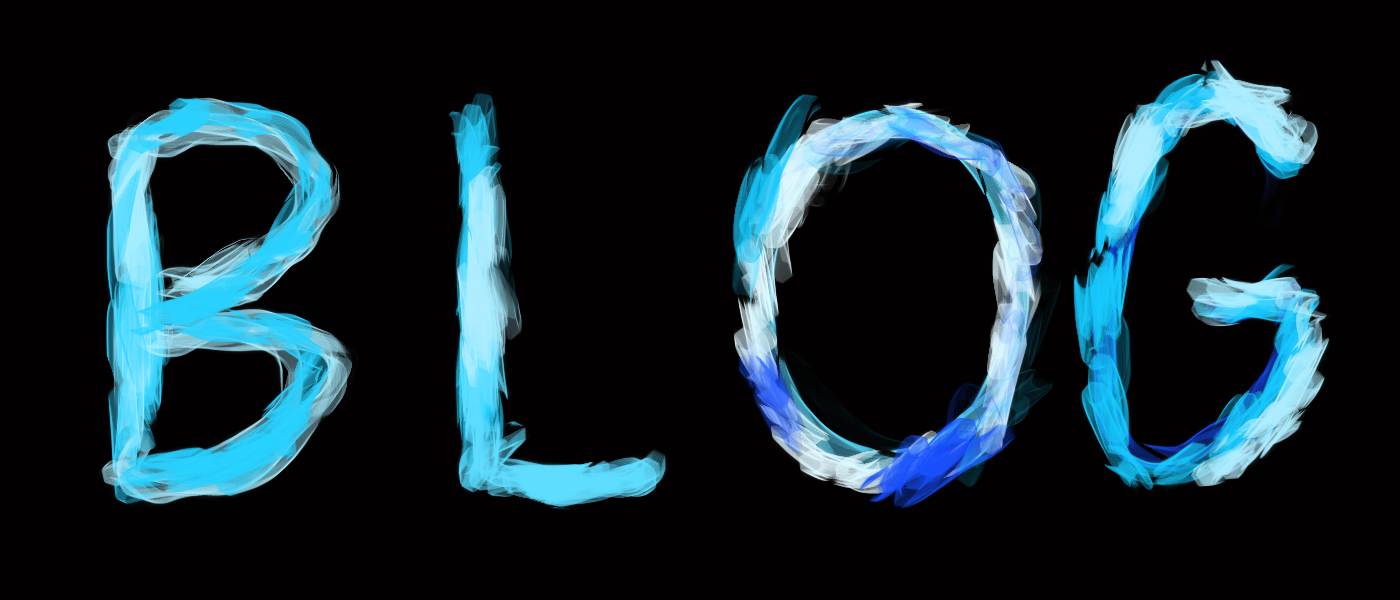
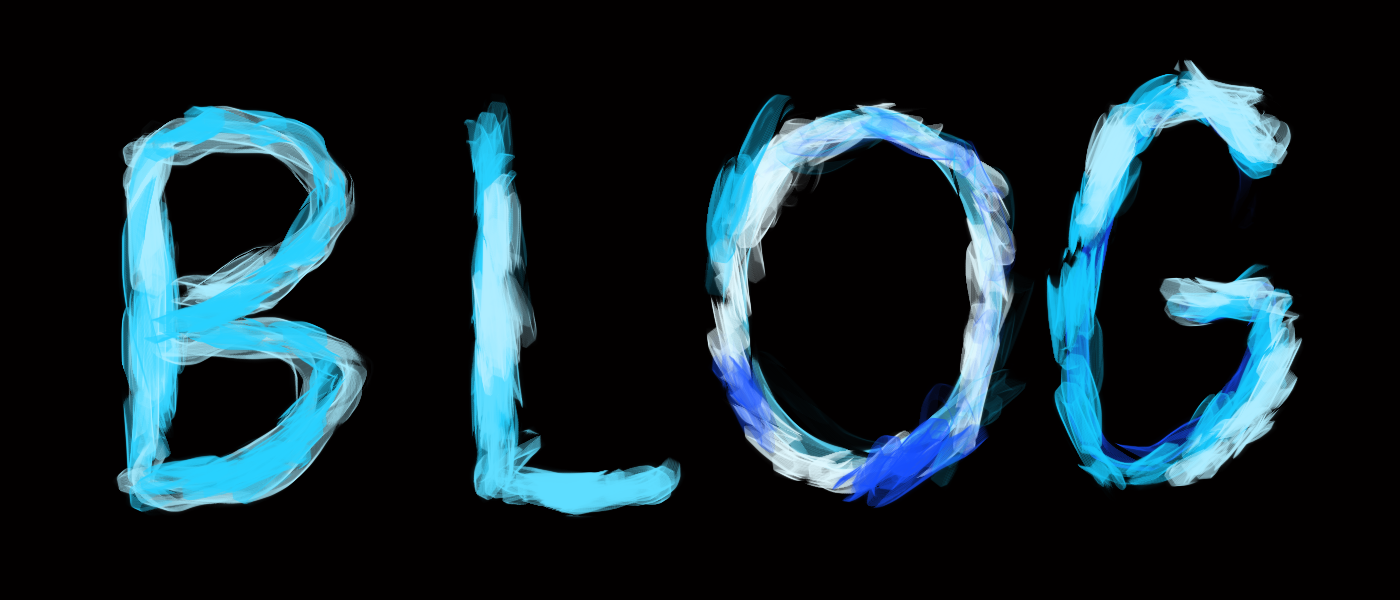
colors and mobile responsiveness looking better

Changed region(s): [[0.4914, 0.09, 0.9521, 0.87], [0.0614, 0.15, 0.2764, 0.87], [0.3071, 0.15, 0.4914, 0.87]]

diff --git a/src/Navigation/MainNav.tsx b/src/Navigation/MainNav.tsx
@@ -1,5 +1,11 @@
 
+//media queries
+import { MenuBreakpoint } from '../UI/MediaQueries'
+
+//react imports
 import { Link } from "react-router-dom"
+
+//styles imports
 import styled from 'styled-components'
 import { randomColor2, randomColor4, randomColor6 } from '../UI/ColorGenerator'
 
@@ -9,10 +15,9 @@ const ListLink = styled(Link)`
   font-size: 1.4em;
   font-weight: 200;
   padding: 10px;
-  margin: 10px;
   text-decoration: none;
   transition: 0.3s;
-  margin: 0 auto;
+  margin: 10px auto;
   display: flex;
 `
 
@@ -23,13 +28,6 @@ const MusicLink = styled(ListLink)`
   }
 `
 
-const TechLink = styled(ListLink)`
-  &:hover {
-    color: ${randomColor4};
-    transition: 0.4s;
-  }
-`
-
 const BlogLink = styled(ListLink)`
   &:hover {
     color: ${randomColor6};
@@ -37,10 +35,22 @@ const BlogLink = styled(ListLink)`
   }
 `
 
+const TechLink = styled(ListLink)`
+  &:hover {
+    color: ${randomColor4};
+    transition: 0.4s;
+  }
+`
+
 const Navbar = styled.div`
   display: flex;
   float: left;
   width: 25%;
+
+  @media ${MenuBreakpoint} {
+    width: 100%;
+    float: none;
+  }
 `
 
 function MainNav() {

diff --git a/src/Navigation/HomeNav.tsx b/src/Navigation/HomeNav.tsx
@@ -1,5 +1,11 @@
 
+//media queries
+import { MenuBreakpoint } from '../UI/MediaQueries'
+
+//react imports
 import { Link } from "react-router-dom"
+
+//styles imports
 import styled from 'styled-components'
 import { randomColor3 } from '../UI/ColorGenerator'
 
@@ -7,6 +13,10 @@ const Container = styled.div`
   display: flex;
   margin: 0 auto;
   width: 50%;
+
+  @media ${MenuBreakpoint} {
+    width: 100%;
+  }
 `
 
 const HomeLink = styled(Link)`
@@ -16,7 +26,7 @@ const HomeLink = styled(Link)`
   color: white;
   transition: 0.3s;
   display: flex;
-  margin: 0 auto;
+  margin: 10px auto;
 
   &:hover {
     color: ${randomColor3};
@@ -28,7 +38,7 @@ function MainNav() {
     return (
       <>
         <Container>
-          <HomeLink to='/'>NH</HomeLink>
+          <HomeLink to='/'>△</HomeLink>
         </Container>
       </>
     )

diff --git a/src/Pages/Tech/index.tsx b/src/Pages/Tech/index.tsx
@@ -1,9 +1,19 @@
-import { TechTitle, TechParagraph } from './styles'
+
+//assets imports 
+import { Tech_Title } from '../../Assets'
+//styles imports
+import { TechParagraph } from './styles'
+import { ImageContainer } from '../../UI/Containers'
+import { BannerImage } from '../../UI/Media'
+
 
 function Tech() {
   return (
     <>
-        <TechTitle>Tech</TechTitle>
+        <ImageContainer>
+          <BannerImage src={ Tech_Title }/>
+        </ImageContainer>
+
         <TechParagraph>
           Non quam lacus suspendisse faucibus interdum posuere lorem ipsum. Dignissim cras tincidunt lobortis 
           feugiat. Pulvinar proin gravida hendrerit lectus a. Dictum varius duis at consectetur. Sed arcu non 

diff --git a/src/Pages/Blog/index.tsx b/src/Pages/Blog/index.tsx
@@ -1,14 +1,20 @@
 
-
+//assets imports
+import { Blog_Title } from '../../Assets'
 //component imports
 import List from '../Blog/Albums2023List'
 //styles imports
-import { BlogTitle, BlogParagraph } from './styles'
+import { BannerImage } from '../../UI/Media'
+import { BlogParagraph } from './styles'
+import { ImageContainer } from '../../UI/Containers'
 
 function Blog() {
   return (
     <>
-        <BlogTitle>Blog</BlogTitle>
+        <ImageContainer>
+          <BannerImage src={ Blog_Title }/>
+        </ImageContainer>
+
         <List />
         <BlogParagraph>
             Amet cursus sit amet dictum sit amet. Pulvinar proin gravida hendrerit lectus a. Purus in massa tempor nec feugiat 

diff --git a/src/Pages/Music/index.tsx b/src/Pages/Music/index.tsx
@@ -2,16 +2,16 @@
 //images imports
 import { Music_Title } from '../../Assets'
 //styles imports
-import { TextContainer, ImageContainer, TitleContainer } from '../../UI/Containers'
+import { TextContainer, ImageContainer } from '../../UI/Containers'
 import { BannerImage } from '../../UI/Media'
-import { MusicTitle, MusicParagraph } from './styles'
+import { MusicParagraph } from './styles'
 
 function Music() {
   return (
     <>
         <ImageContainer>
-            <BannerImage src={ Music_Title }/>
-          </ImageContainer>
+          <BannerImage src={ Music_Title }/>
+        </ImageContainer>
        
         <TextContainer>
           <MusicParagraph>

diff --git a/src/Navigation/SocialNav.tsx b/src/Navigation/SocialNav.tsx
@@ -1,4 +1,8 @@
 
+//media queries
+import { MenuBreakpoint } from '../UI/MediaQueries'
+
+//styles imports
 import styled from 'styled-components'
 import {
   Github_White,
@@ -14,6 +18,7 @@ const Icon = styled.img`
     max-width: 30px; 
     max-height: 30px;
     padding: 10px;
+    margin: 10px auto;
 `
 
 const LinkWrapper = styled.div`
@@ -26,6 +31,11 @@ const Navbar = styled.div`
   margin: 0 auto;
   float: right;
   width: 25%; 
+
+  @media ${MenuBreakpoint} {
+    width: 100%;
+    float: none;
+  }
 `
 
 function SocialNav() {

diff --git a/src/Navigation/Footer.tsx b/src/Navigation/Footer.tsx
@@ -1,0 +1,26 @@
+
+import styled from 'styled-components'
+
+import { MenuBreakpoint } from '../UI/MediaQueries'
+
+const FooterWrapper = styled.div`
+    display: flex;
+    margin: 0 auto;
+
+    /* @media ${MenuBreakpoint} {
+        display: block;
+    } */
+
+`
+
+function Footer() {
+    return (
+        <>
+            <FooterWrapper>
+              
+            </FooterWrapper>
+        </>
+    )
+}
+  
+export default Footer

diff --git a/src/UI/MediaQueries.ts b/src/UI/MediaQueries.ts
@@ -2,6 +2,6 @@
 export const SmallDesktop = '(max-width: 1310px)'
 export const MediaPlayerBreakPoint = '(max-width: 975px)'
 export const iPad = '(max-width: 768px)'
-export const MenuBreakpoint = '(max-width: 610)'
+export const MenuBreakpoint = '(max-width: 680px)'
 export const ImageBreakPoint1 = '(max-width: 535)'
 export const iPhone5 = '(max-width: 320px)'

diff --git a/src/Navigation/Header.tsx b/src/Navigation/Header.tsx
@@ -7,11 +7,12 @@ import { MenuBreakpoint } from '../UI/MediaQueries'
 
 const HeaderWrapper = styled.div`
     display: flex;
-    margin: 0 auto;
+    margin: 20px auto;
+    background-color: blue;
 
-    /* @media ${MenuBreakpoint} {
-        display: block;
-    } */
+     @media ${MenuBreakpoint} {
+        display: block !important;
+    } 
 
 `
 

diff --git a/src/Assets/Titles/index.ts b/src/Assets/Titles/index.ts
@@ -1,10 +1,14 @@
 
+import Blog_Title from './Blog_Title.png'
 import Hart_01 from './Hart_01.png'
 import Nick_01 from './Nick_01.png'
 import Music_Title from './Music_Title.png'
+import Tech_Title from './Tech_Title.png'
 
 export {
+    Blog_Title,
     Hart_01,
     Nick_01,
-    Music_Title
+    Music_Title,
+    Tech_Title
 }

diff --git a/src/Pages/Home/index.tsx b/src/Pages/Home/index.tsx
@@ -2,7 +2,7 @@
 //images
 import { Nick_01, Hart_01 } from '../../Assets'
 //styles imports
-import { HomeTitle, HomeParagraph } from './styles'
+import { HomeParagraph } from './styles'
 import { ImageContainer, TextContainer } from '../../UI/Containers'
 import { BannerImage } from '../../UI/Media'
 

diff --git a/src/Assets/Icons/index.ts b/src/Assets/Icons/index.ts
@@ -2,9 +2,11 @@
 import Github_White from './Github_White.png'
 import IG_White from './IG_White.png'
 import LinkedIn_White from './LinkedIn_White.png'
+import Logo_01 from './Logo_01.png'
 
 export {
     Github_White,
     IG_White,
-    LinkedIn_White
+    LinkedIn_White,
+    Logo_01
 }
